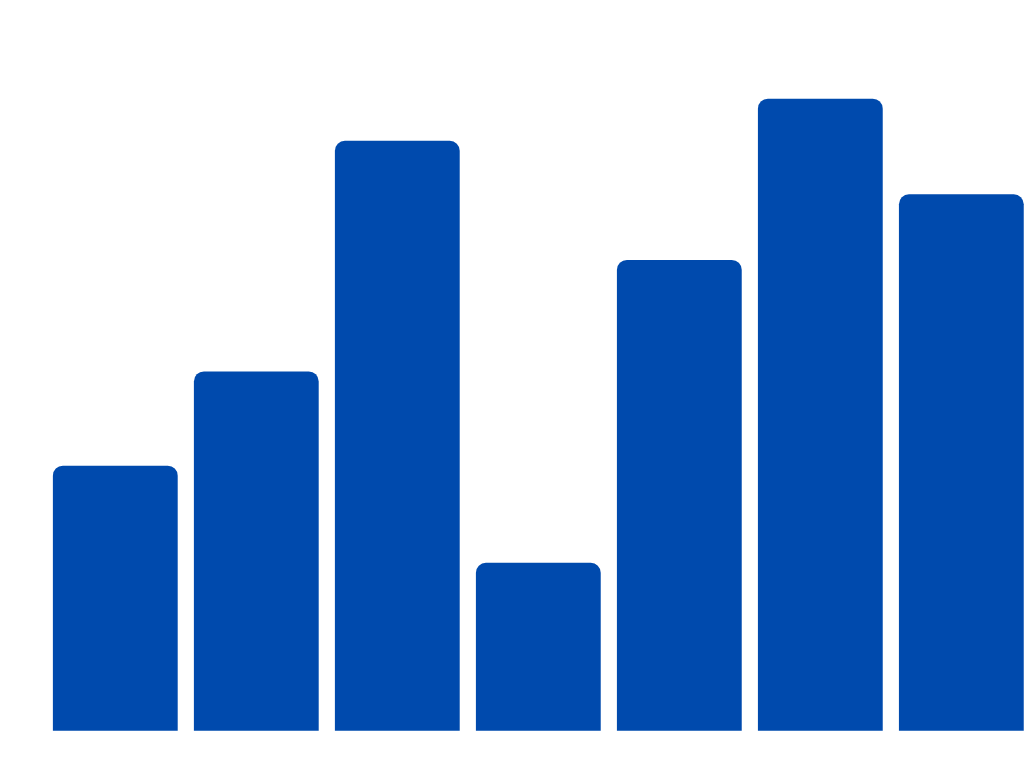
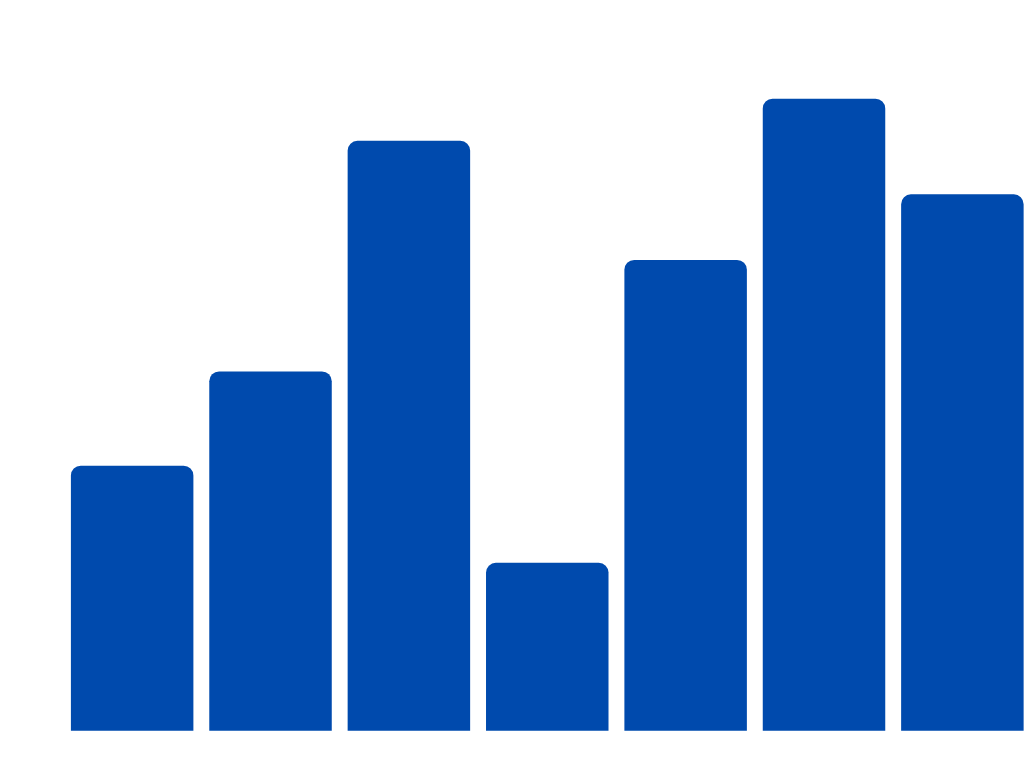
add more cards

diff --git a/index.html b/index.html
@@ -20,48 +20,93 @@
         </header>
     
         <main>
-            <div class="card welcome">
-            <p>Welcome <span class="vag-pwner">VagPwner420</span></p>
-            <div class="to-do">
-                <p>Daily Goals</p>
-                <ul>
-                    <li>
-                        <span class="left-side">Steps</span> <span class="right-side">7,500 / 10,000 </span>
-                        <div class="bar">
-                        <div class="bar-progress steps"></div>
-                    </li>
-                    <li>
-                        <span class="left-side">Cardio</span> <span class="right-side">17min / 30min</span>
-                        <div class="bar">
-                        <div class="bar-progress cardio"></div>
-                    </li>
-                    <li>
-                        <span class="left-side">Weight Training</span> <span class="right-side">63min / 60min</span>
-                        <div class="bar">
-                        <div class="bar-progress weights"></div>
-                    </li>
-                    <li>
-                        <span class="left-side">Sleep</span> <span class="right-side">7.2hr / 8hr</span>
-                        <div class="bar">
-                        <div class="bar-progress sleep"></div>
-                    </li>
-                </ul>
-                <div class="welcome-buttons">
-                    <button id="add-btn">Add</button> 
-                    <button id="remove-btn">Remove</button> 
-                </div>
+            <div class="card-container">
+                <div class="card welcome">
+                    <p class="card-header">Welcome <span class="vag-pwner">VagPwner420</span></p>
+                    <div class="to-do">
+                        <p>Daily Goals</p>
+                        <ul>
+                            <li>
+                                <span class="left-side">Steps</span> <span class="right-side">7,500 / 10,000 </span>
+                                <div class="bar">
+                                <div class="bar-progress steps"></div>
+                            </li>
+                            <li>
+                                <span class="left-side">Cardio</span> <span class="right-side">17min / 30min</span>
+                                <div class="bar">
+                                <div class="bar-progress cardio"></div>
+                            </li>
+                            <li>
+                                <span class="left-side">Weight Training</span> <span class="right-side">63min / 60min</span>
+                                <div class="bar">
+                                <div class="bar-progress weights"></div>
+                            </li>
+                            <li>
+                                <span class="left-side">Sleep</span> <span class="right-side">7.2hr / 8hr</span>
+                                <div class="bar">
+                                <div class="bar-progress sleep"></div>
+                            </li>
+                        </ul>
+                        <div class="welcome-buttons">
+                            <button id="add-btn">Add</button> 
+                            <button id="remove-btn">Remove</button> 
+                        </div>
+                    </div>
+                    </div>
+                    <div class="card weekly">
+                        <p class="card-header">Weekly Activity Overview</p>
+                        <select name="activity-type" id="select-weekly" >
+                            <option value="time">time (min)</option>
+                            <option value="calories">Calories burned (kcal)</option>
+                        </select>
+                        <div class="weekly-graph">
+                            <img src="images/graph-time.png" class="graph-time" alt="time graph">
+                            <img src="images/graph-calories.png" class="graph-calories" alt="calories graph">
+                        </div>
+                    </div>
+
+                    <div class="card devices">
+                        <p class="card-header">Connected Devices</p>
+                        <ul>
+                            <li>
+                                <img src="images/watch.png" alt="smartwatch">
+                                <p>User smartwatch</p>
+                                <button class="disconnect">Disconnect</button>
+                            </li>
+                            <li>
+                                <img src="images/phone.png" alt="smartphone">
+                                <p>User smartphone</p>
+                                <button class="disconnect">Disconnect</button>
+                            </li>
+                        </ul>
+                        <button class="add-devices">Add Devices</button>
+                    </div>
+
+                    <div class="card heart-rate">
+                        <p class="card-header">Heart Rate</p>
+                    </div>
+
+
             </div>
-            </div>
-            <div class="card weekly">
-                <p>Weekly Activity Overview</p>
-                <select name="activity-type" id="select-weekly" >
-                    <option value="time">time (min)</option>
-                    <option value="calories">Calories burned (kcal)</option>
-                </select>
-                <div class="weekly-graph">
-                    <img src="images/graph-time.png" class="graph-time" alt="time graph">
-                    <img src="images/graph-calories.png" class="graph-calories" alt="calories graph">
+            <button class="show-ann">Show Announcements</button>
+            <div class="announcements">
+                <h2>Announcements</h2>
+                <button class="hide-ann">Hide Announcements</button>
+                <div class="ann">
+                    <h4>Site Under Maintenance</h4>
+                    <p>Lorem ipsum dolor sit amet consectetur adipisicing elit. In praesentium eligendi temporibus, fugiat est et? Lorem ipsum dolor sit, amet consectetur adipisicing elit. Nesciunt, officiis.</p>
                 </div>
+                <div class="ann">
+                    <h4>Generic Fitness Pro</h4>
+                    <p>Lorem ipsum dolor sit, amet consectetur adipisicing elit. Corrupti, impedit? Necessitatibus totam quae eum adipisci laborum quasi? Lorem ipsum dolor sit, amet consectetur adipisicing elit. Saepe, excepturi!
+                    </p>
+                </div>
+                <div class="ann">
+                    <h4>Generic Fitness 10K Event</h4>
+                    <p>Lorem ipsum dolor sit amet consectetur adipisicing elit. Molestias animi harum assumenda accusantium voluptate tenetur vero numquam dolor soluta provident! Nulla sapiente impedit laudantium earum ab. Aliquam, et. Cum, illum?
+                    </p>
+                </div>
+
             </div>
         </main>
 

diff --git a/style.css b/style.css
@@ -10,6 +10,8 @@ font-family: 'Montserrat', sans-serif;*/
     --bg-main : #36434f;
     --nav-links: rgba(43, 42, 54, 0.81);
     --card: rgba(114, 100, 100, 0.29);
+    --card1-inner: rgba(88, 85, 58, 0.227);   /* --card1-inner: rgba(255, 251, 0, 0.227); yellowish*/
+ 
 }
 
 *{
@@ -166,9 +168,6 @@ nav {
     border-radius: 50px 0 0 0;
     background: var(--nav-links);
     box-shadow: rgba(0, 0, 0, 0.09) 0px 2px 1px, rgba(0, 0, 0, 0.09) 0px 4px 2px, rgba(0, 0, 0, 0.09) 0px 8px 4px, rgba(0, 0, 0, 0.09) 0px 16px 8px, rgba(0, 0, 0, 0.09) 0px 32px 16px;
-
-
-
 }
 
 .links-hover{
@@ -195,33 +194,107 @@ li img {
 
                                                 /* main stuff */
 main{
-    /* background: var(--bg-main); */
     grid-column: 1 / 3;
     grid-row: 2 / 3;
+    height: 100vh;
     margin-left:80px;
     border-radius: 50px 0 0 0;
-    padding: 40px;
+    padding: 40px 10px 40px 40px;
     display: grid;
-    grid-template-columns: 1fr 1fr 1fr;
-    gap: 20px;
+    grid-template-columns: 10fr 1fr;
     background: linear-gradient(to right, #0f0c29, #1e1b40, #1a1a2c);
+
+    
 }
+                                            /* announcements  */
+
+.announcements{
+    /* height:100vh; */
+    background: rgba(52, 54, 75, 0.246);
+    justify-self: end;
+    border-radius: 20px;
+    display: grid;
+    padding: 20px;
+    font-family: 'Comfortaa', cursive; 
+    box-shadow: rgba(0, 0, 0, 0.24) 0px 3px 8px;
+
+}
+.hide-ann, .show-ann {
+    border: none;
+    width: 140px;
+    height: 20px;
+    font-family: 'Baloo 2', cursive;
+    color: white;
+    background: #261e6d;
+    justify-self: center;
+    position: sticky;
+    top: 80px;
+}
+
+.hide-ann:hover, .show-ann:hover{
+    background: #382ab7;
+    box-shadow: rgba(0, 0, 0, 0.25) 0px 54px 55px, rgba(0, 0, 0, 0.12) 0px -12px 30px, rgba(0, 0, 0, 0.12) 0px 4px 6px, rgba(0, 0, 0, 0.17) 0px 12px 13px, rgba(0, 0, 0, 0.09) 0px -3px 5px;
+}    
+
+.show-ann{
+    display: none;
+    width: calc(8vw + 20px);
+    font-size: calc(1vw - 3px);
+    box-shadow: rgba(0, 0, 0, 0.25) 0px 54px 55px, rgba(0, 0, 0, 0.12) 0px -12px 30px, rgba(0, 0, 0, 0.12) 0px 4px 6px, rgba(0, 0, 0, 0.17) 0px 12px 13px, rgba(0, 0, 0, 0.09) 0px -3px 5px;  
+}
+
+
+.announcements > h2{
+    text-align: center;
+    margin-bottom: 5px;
+}       
+.announcements h4{
+    color: rgb(244, 244, 247);
+    text-align: center;
+    margin-bottom: 10px;
+}
+.ann{
+    margin-bottom: 20px;
+    border: 0.1px solid white;
+    border-radius: 5px;
+    padding: 10px;
+}
+.ann p{
+    color: rgb(132, 79, 79);
+}                         
+
+
+
 
                                                 /* cards */
                                                 /* card Welcome */
+.card-container{
+    grid-column: 1 / 2;
+    display: grid;
+    grid-template-columns: 1fr 1fr 1fr 1fr;
+    grid-auto-rows: 1fr 1fr;
 
+
+}
+.card-container-hidden-ann{
+    margin-left: 100px;
+}                                       
 .card{
     padding: 20px;
-    max-height:410px;
-    min-width: 550px;
+    max-height:400px;
+    /* width: clamp(300px, 80%, 550px); */
     background: var(--card);
     border-radius: 30px;
     box-shadow: rgba(6, 24, 44, 0.4) 0px 0px 0px 2px, rgba(6, 24, 44, 0.65) 0px 4px 6px -1px, rgba(255, 255, 255, 0.08) 0px 1px 0px inset;
     user-select: none;
     list-style: none;
+    overflow: hidden;
+    width: clamp(300px, 90%, 550px);
 }
-
-.welcome > p, .weekly > p{
+.card-ann-hidden{
+      width: clamp(300px, 80%, 550px);
+}
+.card-header{
     margin-bottom: 10px;
     width: 100%;
     font-size: 1.3rem;
@@ -233,7 +306,7 @@ main{
     text-shadow: 2px 2px 5px rgba(45,57,206,0.73);
 }
 .to-do{
-    background: rgba(255, 251, 0, 0.227);
+    background: var(--card1-inner);
     padding: 20px;
     border-radius: 20px;
     box-shadow: rgba(0, 0, 0, 0.2) 0px 2px 3px, rgba(0, 0, 0, 0.2) 0px 5px 10px -3px, rgba(0, 0, 0, 0.2) 0px -2px 0px inset;
@@ -241,7 +314,10 @@ main{
 
 
 }
-
+.welcome {
+    grid-column: 1 / 3;
+    grid-row: 1 / 2;
+}
 .welcome > p {
     margin-bottom: 30px;
 }
@@ -266,7 +342,7 @@ main{
 .to-do li .bar {
     width: 100%;
 }
-.to-do button {
+.to-do button, .add-devices {
     background: var(--nav-links);
     border: 0.1px solid rgb(108, 100, 19);
     width: 6.5rem;
@@ -359,6 +435,7 @@ main{
 
                                                 /* card weekly */
 .weekly{
+    grid-column: 3 / 5;
     display: grid;
     grid-template-columns: 1fr;
     grid-template-rows: 1fr 1fr 3fr ;
@@ -377,13 +454,51 @@ select{
 }
 
 .weekly-graph .graph-time{
-   width: 88%;
-   margin-left: 20px;
+   width: 85%;
+   margin-left: 32px;
 
 }
 
 .weekly-graph .graph-calories{
-    width: 88%;
-    margin-left: 20px;
+    width: 85%;
+    margin-left: 32px;
    display: none;
 }
+
+                                                /* card devices */
+
+/* font-family: 'Baloo 2', cursive;
+font-family: 'Comfortaa', cursive; 
+font-family: 'Raleway', sans-serif;
+font-family: 'Montserrat', sans-serif;*/
+.devices{
+    grid-column: 1 / 2;
+    min-width: 260px;
+    max-height: 200px;
+    font-family: 'Montserrat', sans-serif;
+    font-size: 1rem;
+    white-space: nowrap;
+    display: grid;
+    justify-items: center;
+}
+                                               
+.devices li{
+    display: grid;
+    grid-template-columns: 1fr 1fr 1fr ;
+    align-items: center;
+    padding: 5px;
+    margin-bottom: 20px;
+    border-bottom: 0.1px solid rgba(227, 217, 217, 0.471);
+    list-style: none;
+}
+.disconnect{
+    border: 0.1px solid rgba(111, 103, 103, 0.636);
+    background-color: rgb(175, 94, 94);
+    width: 70px;
+    height:20px;
+    font-family: 'Baloo 2', cursive;
+    color: rgb(235, 237, 246);
+    margin-left: 5px;
+}
+
+                                                /* card heart */

diff --git a/script.js b/script.js
@@ -20,5 +20,32 @@ window.onload = function selectDropdown(){
             graphCal.style.display="block";
         }
     })
-
 }
+
+
+let hideAnn = document.querySelector(".hide-ann");
+let showAnn = document.querySelector(".show-ann");
+let ann = document.querySelector(".announcements");
+let cardContainer = document.querySelector(".card-container");
+hideAnn.addEventListener("click", ()=>{
+    cardContainer.classList.add("card-container-hidden-ann");
+    ann.style.display="none";
+    showAnn.style.display="block";
+    showAnn.addEventListener("click", ()=>{
+        showAnn.style.display="none";
+        ann.style.display="grid";
+        cardContainer.classList.remove("card-container-hidden-ann");
+        
+    })
+})
+
+window.addEventListener("scroll", ()=>{
+    let links = document.querySelector(".links");
+    if(window.scrollY > 7){
+        links.style.borderRadius= "0px";
+    }
+    else{
+        links.style.borderRadius = "50px 0 0 0";
+    }
+})
+
